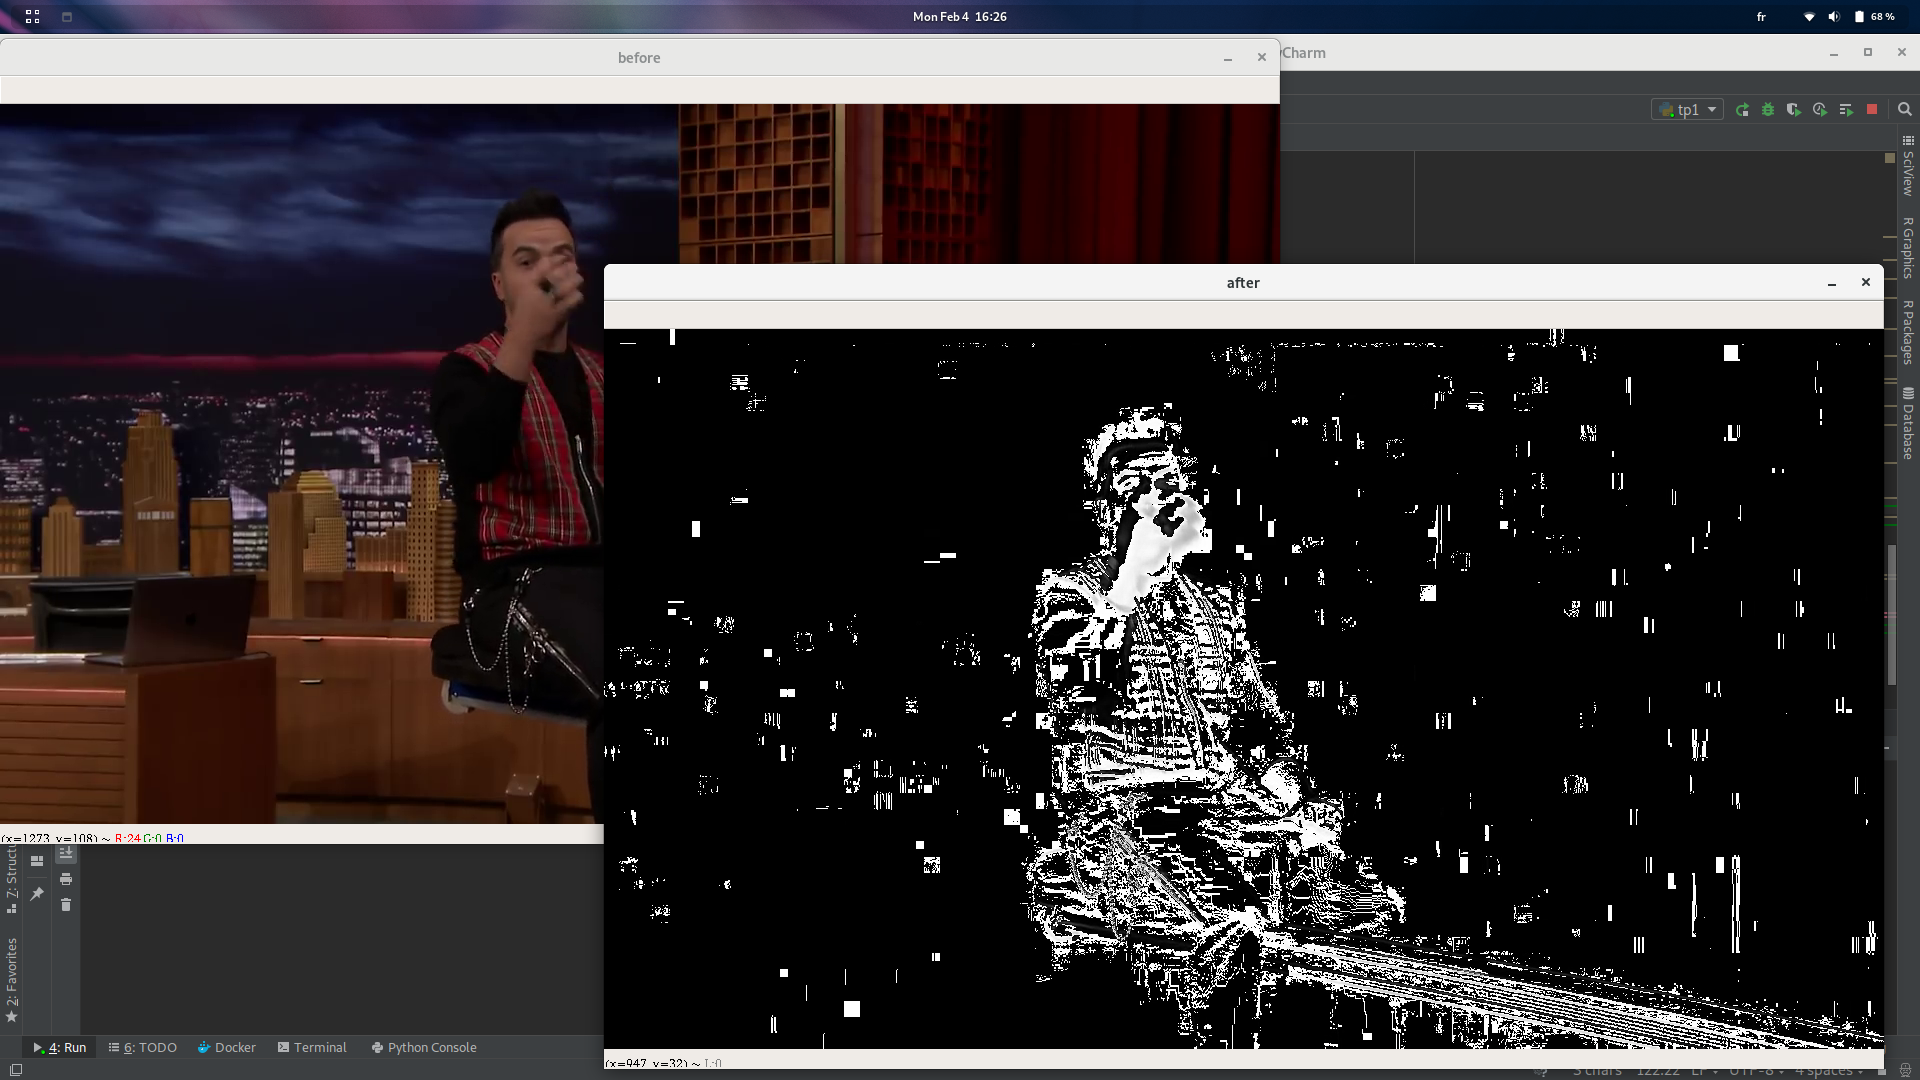
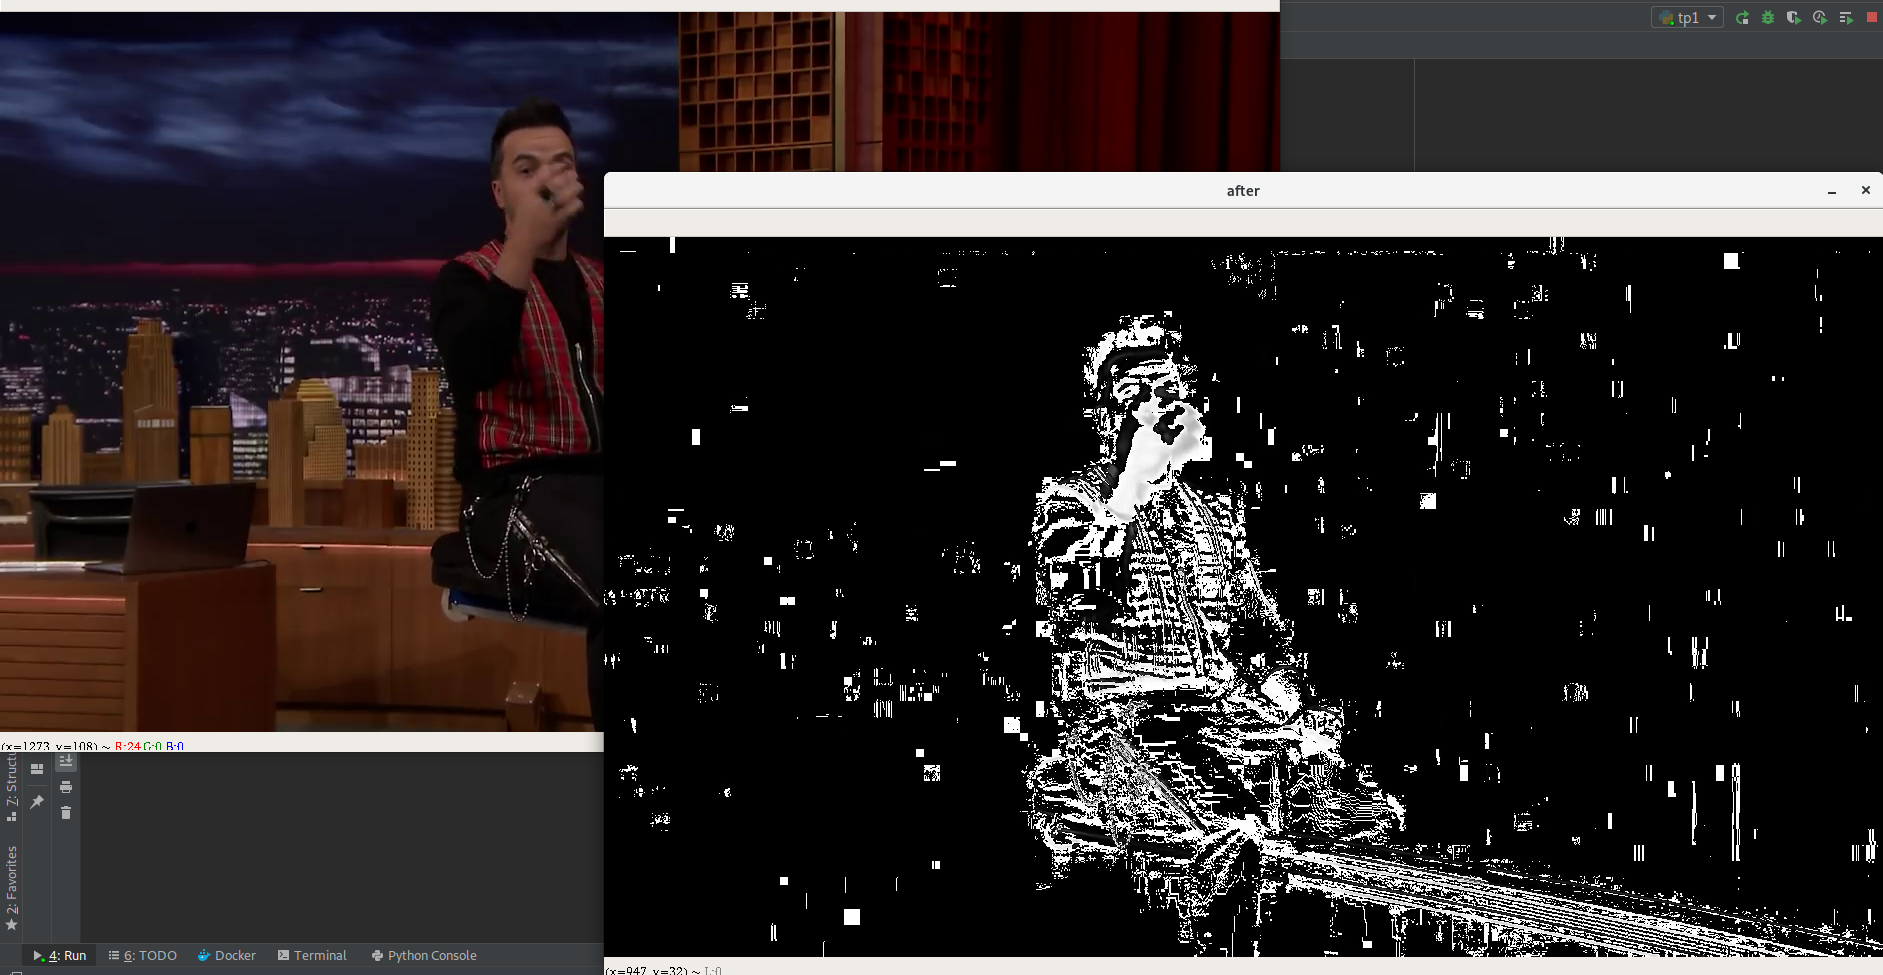
pushing

diff --git a/report.md b/report.md
@@ -6,6 +6,8 @@ Note envoyer à donatello.conte@univ-tours.fr avant le 10/02/19
 
 ## Exercice 1 : Prise en main de Python + OpenCV
 
+Le code *main* en Python va principalement ressembler à ceci:
+
 ```python
 # Mon script OpenCV : Video_processing
 # importation des librairies, opencv et numpy
@@ -165,22 +167,53 @@ while True:
     else:
         print('video ended')
         break
-    if cv2.waitKey(40) & 0xFF == ord('q'):
-        break
-
-cap.release()
-cv2.destroyAllWindows()
 ```
 
-Ceci permet de conserver en mémoire la frame précédente afin de pouvoir faire la différence entre avec la ligne:
+Ceci permet de conserver en mémoire la frame précédente (prev) afin de pouvoir faire la différence entre avec l'image actuelle (img):
 
 ```python
 res = img - greyscale(prev)
 ```
 
+![](img/pas_jimmy_substraction.png)
+
 ## Exercice 3 : Détection de changements de plan et résumé automatique de vidéo
 
 ### Question 1
+
+On modifie à nouveau le *main* pour détecter si un grand nombre de pixels change d'une image à l'autre. Si un gros changement se produit, cela est très certainement dû à un changement de plan dans la vidéo. On compte aussi les images afin de pouvoir afficher le numéro de l'image ou se produit le changement de plan.
+
+```python
+i = 0
+prev = None
+while True:
+    i += 1
+    ret, frame = cap.read()
+    max_change = frame.shape[0]*frame.shape[1]
+    epsilon = 0.1
+    max_change = (1-epsilon)*max_change*127
+    if ret:
+        img = frame.copy()
+        img = greyscale(img)
+
+        res = img
+        if prev is not None:
+            res = img - greyscale(prev)
+            if np.sum(res) > max_change:
+                print("Changement de Plan  à l'image {}".format(i))
+
+        cv2.imshow("before", frame)
+        cv2.imshow("after", res)
+
+        prev = frame
+    else:
+        print('video ended')
+        break
+    if cv2.waitKey(40) & 0xFF == ord('q'):
+        break
+```
+
+![changement de plan](img/changement_plan.png)
 
 ### Question 2
 
